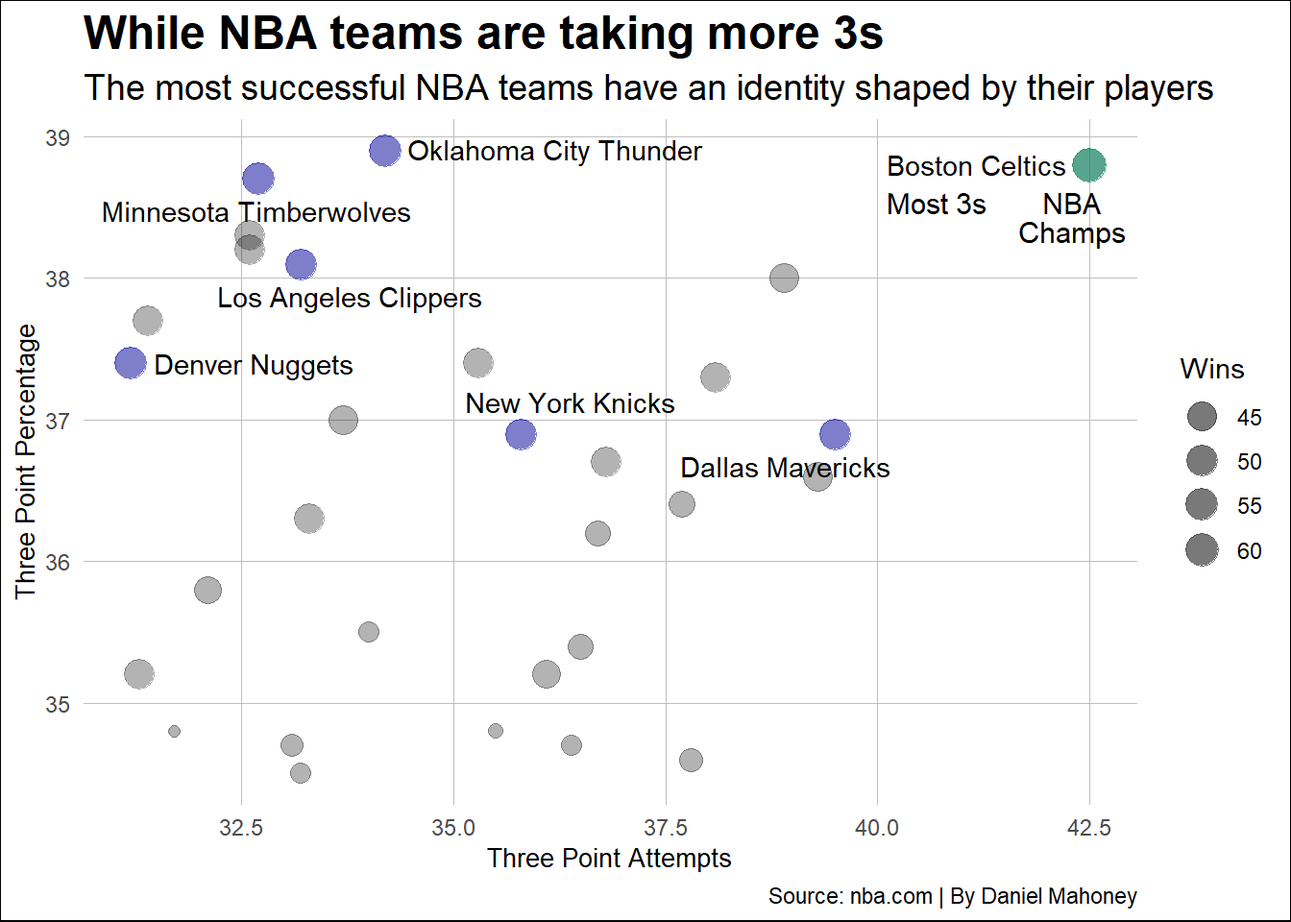
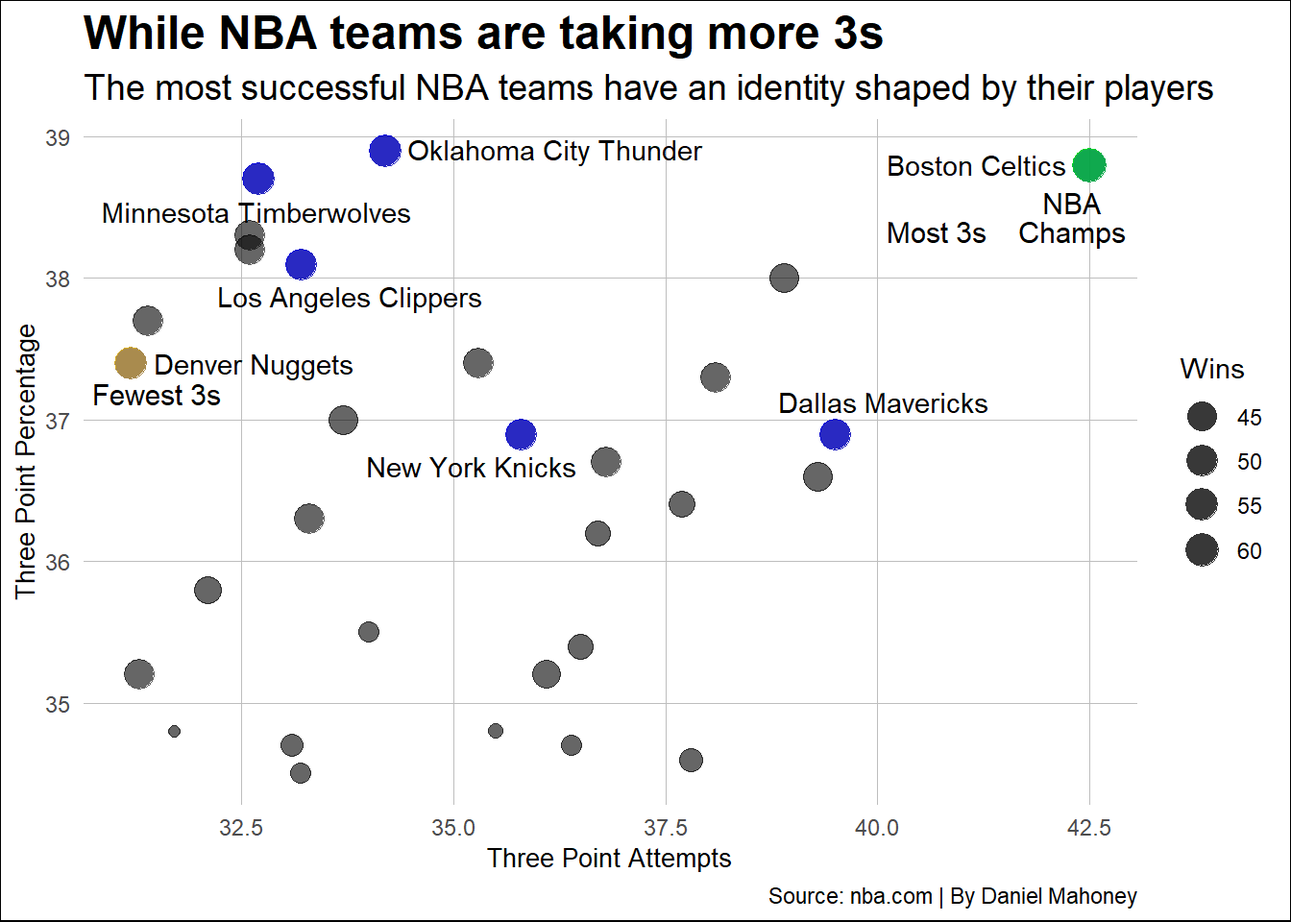
update index.html

diff --git a/posts/three-point-revolution/index.html b/posts/three-point-revolution/index.html
@@ -403,93 +403,112 @@ pre > code.sourceCode > span > a:first-child::before { text-decoration: underlin
 <span id="cb3-2"><a href="#cb3-2" aria-hidden="true" tabindex="-1"></a>  <span class="fu">filter</span>(Wins <span class="sc">&gt;</span> <span class="dv">49</span>)</span>
 <span id="cb3-3"><a href="#cb3-3" aria-hidden="true" tabindex="-1"></a>Boston <span class="ot">&lt;-</span> GoodTeams <span class="sc">|&gt;</span>  </span>
 <span id="cb3-4"><a href="#cb3-4" aria-hidden="true" tabindex="-1"></a>  <span class="fu">filter</span>(Wins <span class="sc">&gt;</span> <span class="dv">62</span>)</span>
-<span id="cb3-5"><a href="#cb3-5" aria-hidden="true" tabindex="-1"></a><span class="fu">ggplot</span>() <span class="sc">+</span></span>
-<span id="cb3-6"><a href="#cb3-6" aria-hidden="true" tabindex="-1"></a>  <span class="fu">geom_point</span>(</span>
-<span id="cb3-7"><a href="#cb3-7" aria-hidden="true" tabindex="-1"></a>    <span class="at">data =</span> logs24,</span>
-<span id="cb3-8"><a href="#cb3-8" aria-hidden="true" tabindex="-1"></a>    <span class="fu">aes</span>(</span>
-<span id="cb3-9"><a href="#cb3-9" aria-hidden="true" tabindex="-1"></a>      <span class="at">x =</span> <span class="st">`</span><span class="at">3P Attempts</span><span class="st">`</span>, </span>
-<span id="cb3-10"><a href="#cb3-10" aria-hidden="true" tabindex="-1"></a>      <span class="at">y =</span> <span class="st">`</span><span class="at">3P Percentage</span><span class="st">`</span>, </span>
-<span id="cb3-11"><a href="#cb3-11" aria-hidden="true" tabindex="-1"></a>      <span class="at">size =</span> Wins</span>
-<span id="cb3-12"><a href="#cb3-12" aria-hidden="true" tabindex="-1"></a>    ),</span>
-<span id="cb3-13"><a href="#cb3-13" aria-hidden="true" tabindex="-1"></a>    <span class="at">alpha =</span> .<span class="dv">3</span></span>
-<span id="cb3-14"><a href="#cb3-14" aria-hidden="true" tabindex="-1"></a>  ) <span class="sc">+</span> </span>
-<span id="cb3-15"><a href="#cb3-15" aria-hidden="true" tabindex="-1"></a>  <span class="fu">geom_point</span>(</span>
-<span id="cb3-16"><a href="#cb3-16" aria-hidden="true" tabindex="-1"></a>    <span class="at">data =</span> GoodTeams, </span>
-<span id="cb3-17"><a href="#cb3-17" aria-hidden="true" tabindex="-1"></a>    <span class="fu">aes</span>(</span>
-<span id="cb3-18"><a href="#cb3-18" aria-hidden="true" tabindex="-1"></a>      <span class="at">x =</span> <span class="st">`</span><span class="at">3P Attempts</span><span class="st">`</span>, </span>
-<span id="cb3-19"><a href="#cb3-19" aria-hidden="true" tabindex="-1"></a>      <span class="at">y =</span> <span class="st">`</span><span class="at">3P Percentage</span><span class="st">`</span>, </span>
-<span id="cb3-20"><a href="#cb3-20" aria-hidden="true" tabindex="-1"></a>      <span class="at">size =</span> Wins</span>
-<span id="cb3-21"><a href="#cb3-21" aria-hidden="true" tabindex="-1"></a>    ),</span>
-<span id="cb3-22"><a href="#cb3-22" aria-hidden="true" tabindex="-1"></a>    <span class="at">alpha =</span> .<span class="dv">3</span>,</span>
-<span id="cb3-23"><a href="#cb3-23" aria-hidden="true" tabindex="-1"></a>    <span class="at">color =</span> <span class="st">"blue"</span></span>
-<span id="cb3-24"><a href="#cb3-24" aria-hidden="true" tabindex="-1"></a>  ) <span class="sc">+</span> </span>
-<span id="cb3-25"><a href="#cb3-25" aria-hidden="true" tabindex="-1"></a>  <span class="fu">geom_point</span>(</span>
-<span id="cb3-26"><a href="#cb3-26" aria-hidden="true" tabindex="-1"></a>    <span class="at">data =</span> Boston, </span>
-<span id="cb3-27"><a href="#cb3-27" aria-hidden="true" tabindex="-1"></a>    <span class="fu">aes</span>(</span>
-<span id="cb3-28"><a href="#cb3-28" aria-hidden="true" tabindex="-1"></a>      <span class="at">x =</span> <span class="st">`</span><span class="at">3P Attempts</span><span class="st">`</span>, </span>
-<span id="cb3-29"><a href="#cb3-29" aria-hidden="true" tabindex="-1"></a>      <span class="at">y =</span> <span class="st">`</span><span class="at">3P Percentage</span><span class="st">`</span>, </span>
-<span id="cb3-30"><a href="#cb3-30" aria-hidden="true" tabindex="-1"></a>      <span class="at">size =</span> Wins</span>
-<span id="cb3-31"><a href="#cb3-31" aria-hidden="true" tabindex="-1"></a>    ),</span>
-<span id="cb3-32"><a href="#cb3-32" aria-hidden="true" tabindex="-1"></a>    <span class="at">alpha =</span> .<span class="dv">3</span>,  </span>
-<span id="cb3-33"><a href="#cb3-33" aria-hidden="true" tabindex="-1"></a>    <span class="at">color =</span> <span class="st">"green"</span></span>
-<span id="cb3-34"><a href="#cb3-34" aria-hidden="true" tabindex="-1"></a>  ) <span class="sc">+</span> </span>
-<span id="cb3-35"><a href="#cb3-35" aria-hidden="true" tabindex="-1"></a>  <span class="fu">geom_text_repel</span>(</span>
-<span id="cb3-36"><a href="#cb3-36" aria-hidden="true" tabindex="-1"></a>    <span class="at">data =</span> GoodTeams,  </span>
-<span id="cb3-37"><a href="#cb3-37" aria-hidden="true" tabindex="-1"></a>    <span class="fu">aes</span>(</span>
-<span id="cb3-38"><a href="#cb3-38" aria-hidden="true" tabindex="-1"></a>      <span class="at">x =</span> <span class="st">`</span><span class="at">3P Attempts</span><span class="st">`</span>, </span>
-<span id="cb3-39"><a href="#cb3-39" aria-hidden="true" tabindex="-1"></a>      <span class="at">y =</span> <span class="st">`</span><span class="at">3P Percentage</span><span class="st">`</span>, </span>
-<span id="cb3-40"><a href="#cb3-40" aria-hidden="true" tabindex="-1"></a>      <span class="at">label =</span> Team</span>
-<span id="cb3-41"><a href="#cb3-41" aria-hidden="true" tabindex="-1"></a>    ),</span>
-<span id="cb3-42"><a href="#cb3-42" aria-hidden="true" tabindex="-1"></a>    <span class="at">box.padding =</span> <span class="fl">0.5</span>,</span>
-<span id="cb3-43"><a href="#cb3-43" aria-hidden="true" tabindex="-1"></a>    <span class="at">point.padding =</span> <span class="fl">0.5</span>,</span>
-<span id="cb3-44"><a href="#cb3-44" aria-hidden="true" tabindex="-1"></a>    <span class="at">max.overlaps =</span> <span class="dv">10</span></span>
-<span id="cb3-45"><a href="#cb3-45" aria-hidden="true" tabindex="-1"></a>  ) <span class="sc">+</span></span>
-<span id="cb3-46"><a href="#cb3-46" aria-hidden="true" tabindex="-1"></a>  <span class="fu">scale_size_continuous</span>(</span>
-<span id="cb3-47"><a href="#cb3-47" aria-hidden="true" tabindex="-1"></a>    <span class="at">breaks =</span> <span class="fu">c</span>(<span class="dv">45</span>, <span class="dv">50</span>, <span class="dv">55</span>, <span class="dv">60</span>),</span>
-<span id="cb3-48"><a href="#cb3-48" aria-hidden="true" tabindex="-1"></a>    <span class="at">labels =</span> <span class="fu">c</span>(<span class="st">"45"</span>, <span class="st">"50"</span>, <span class="st">"55"</span>, <span class="st">"60"</span>),</span>
-<span id="cb3-49"><a href="#cb3-49" aria-hidden="true" tabindex="-1"></a>    <span class="at">range =</span> <span class="fu">c</span>(<span class="dv">2</span>, <span class="dv">6</span>)</span>
-<span id="cb3-50"><a href="#cb3-50" aria-hidden="true" tabindex="-1"></a>  ) <span class="sc">+</span></span>
-<span id="cb3-51"><a href="#cb3-51" aria-hidden="true" tabindex="-1"></a>  <span class="fu">labs</span>(</span>
-<span id="cb3-52"><a href="#cb3-52" aria-hidden="true" tabindex="-1"></a>    <span class="at">x =</span> <span class="st">"Three Point Attempts"</span>,</span>
-<span id="cb3-53"><a href="#cb3-53" aria-hidden="true" tabindex="-1"></a>    <span class="at">y =</span> <span class="st">"Three Point Percentage"</span>,</span>
-<span id="cb3-54"><a href="#cb3-54" aria-hidden="true" tabindex="-1"></a>    <span class="at">title =</span> <span class="st">"While NBA teams are taking more 3s"</span>,</span>
-<span id="cb3-55"><a href="#cb3-55" aria-hidden="true" tabindex="-1"></a>    <span class="at">subtitle =</span> <span class="st">"The most successful NBA teams have an identity shaped by their players"</span>,</span>
-<span id="cb3-56"><a href="#cb3-56" aria-hidden="true" tabindex="-1"></a>    <span class="at">caption =</span> <span class="st">"Source: nba.com | By Daniel Mahoney"</span>,</span>
-<span id="cb3-57"><a href="#cb3-57" aria-hidden="true" tabindex="-1"></a>    <span class="at">size =</span> <span class="st">"Wins"</span></span>
-<span id="cb3-58"><a href="#cb3-58" aria-hidden="true" tabindex="-1"></a>  ) <span class="sc">+</span></span>
-<span id="cb3-59"><a href="#cb3-59" aria-hidden="true" tabindex="-1"></a>  <span class="fu">geom_text</span>(</span>
-<span id="cb3-60"><a href="#cb3-60" aria-hidden="true" tabindex="-1"></a>    <span class="fu">aes</span>(<span class="at">x =</span> <span class="fl">42.3</span>, <span class="at">y =</span> <span class="fl">38.3</span>, <span class="at">label =</span> <span class="st">"NBA"</span>),</span>
-<span id="cb3-61"><a href="#cb3-61" aria-hidden="true" tabindex="-1"></a>    <span class="at">color =</span> <span class="st">"black"</span>,</span>
-<span id="cb3-62"><a href="#cb3-62" aria-hidden="true" tabindex="-1"></a>    <span class="at">size =</span> <span class="dv">4</span>,</span>
-<span id="cb3-63"><a href="#cb3-63" aria-hidden="true" tabindex="-1"></a>    <span class="at">vjust =</span> <span class="sc">-</span><span class="dv">1</span>,  </span>
-<span id="cb3-64"><a href="#cb3-64" aria-hidden="true" tabindex="-1"></a>    <span class="at">hjust =</span> <span class="fl">0.5</span></span>
-<span id="cb3-65"><a href="#cb3-65" aria-hidden="true" tabindex="-1"></a>  ) <span class="sc">+</span></span>
-<span id="cb3-66"><a href="#cb3-66" aria-hidden="true" tabindex="-1"></a>  <span class="fu">geom_text</span>(</span>
-<span id="cb3-67"><a href="#cb3-67" aria-hidden="true" tabindex="-1"></a>    <span class="fu">aes</span>(<span class="at">x =</span> <span class="fl">42.3</span>, <span class="at">y =</span> <span class="fl">38.1</span>, <span class="at">label =</span> <span class="st">"Champs"</span>),</span>
-<span id="cb3-68"><a href="#cb3-68" aria-hidden="true" tabindex="-1"></a>    <span class="at">color =</span> <span class="st">"black"</span>,</span>
-<span id="cb3-69"><a href="#cb3-69" aria-hidden="true" tabindex="-1"></a>    <span class="at">size =</span> <span class="dv">4</span>,</span>
-<span id="cb3-70"><a href="#cb3-70" aria-hidden="true" tabindex="-1"></a>    <span class="at">vjust =</span> <span class="sc">-</span><span class="dv">1</span>,  </span>
-<span id="cb3-71"><a href="#cb3-71" aria-hidden="true" tabindex="-1"></a>    <span class="at">hjust =</span> <span class="fl">0.5</span></span>
-<span id="cb3-72"><a href="#cb3-72" aria-hidden="true" tabindex="-1"></a>  ) <span class="sc">+</span></span>
-<span id="cb3-73"><a href="#cb3-73" aria-hidden="true" tabindex="-1"></a>  <span class="fu">geom_text</span>(</span>
-<span id="cb3-74"><a href="#cb3-74" aria-hidden="true" tabindex="-1"></a>    <span class="fu">aes</span>(<span class="at">x =</span> <span class="fl">40.7</span>, <span class="at">y =</span> <span class="fl">38.3</span>, <span class="at">label =</span> <span class="st">"Most 3s"</span>),</span>
-<span id="cb3-75"><a href="#cb3-75" aria-hidden="true" tabindex="-1"></a>    <span class="at">color =</span> <span class="st">"black"</span>,</span>
-<span id="cb3-76"><a href="#cb3-76" aria-hidden="true" tabindex="-1"></a>    <span class="at">size =</span> <span class="dv">4</span>,</span>
-<span id="cb3-77"><a href="#cb3-77" aria-hidden="true" tabindex="-1"></a>    <span class="at">vjust =</span> <span class="sc">-</span><span class="dv">1</span>,  </span>
-<span id="cb3-78"><a href="#cb3-78" aria-hidden="true" tabindex="-1"></a>    <span class="at">hjust =</span> <span class="fl">0.5</span></span>
-<span id="cb3-79"><a href="#cb3-79" aria-hidden="true" tabindex="-1"></a>  ) <span class="sc">+</span></span>
-<span id="cb3-80"><a href="#cb3-80" aria-hidden="true" tabindex="-1"></a>  <span class="fu">guides</span>(<span class="at">size =</span> <span class="fu">guide_legend</span>(<span class="at">title =</span> <span class="st">"Wins"</span>, <span class="at">override.aes =</span> <span class="fu">list</span>(<span class="at">color =</span> <span class="st">"#333333"</span>))) <span class="sc">+</span></span>
-<span id="cb3-81"><a href="#cb3-81" aria-hidden="true" tabindex="-1"></a>  <span class="fu">theme_minimal</span>() <span class="sc">+</span></span>
-<span id="cb3-82"><a href="#cb3-82" aria-hidden="true" tabindex="-1"></a>  <span class="fu">theme</span>(</span>
-<span id="cb3-83"><a href="#cb3-83" aria-hidden="true" tabindex="-1"></a>    <span class="at">plot.title =</span> <span class="fu">element_text</span>(<span class="at">size =</span> <span class="dv">18</span>, <span class="at">face =</span> <span class="st">"bold"</span>), </span>
-<span id="cb3-84"><a href="#cb3-84" aria-hidden="true" tabindex="-1"></a>    <span class="at">plot.background =</span> <span class="fu">element_rect</span>(<span class="at">fill =</span> <span class="st">"white"</span>),</span>
-<span id="cb3-85"><a href="#cb3-85" aria-hidden="true" tabindex="-1"></a>    <span class="at">plot.subtitle =</span> <span class="fu">element_text</span>(<span class="at">size =</span> <span class="dv">14</span>),  </span>
-<span id="cb3-86"><a href="#cb3-86" aria-hidden="true" tabindex="-1"></a>    <span class="at">axis.title =</span> <span class="fu">element_text</span>(<span class="at">size =</span> <span class="dv">10</span>),  </span>
-<span id="cb3-87"><a href="#cb3-87" aria-hidden="true" tabindex="-1"></a>    <span class="at">axis.text =</span> <span class="fu">element_text</span>(<span class="at">size =</span> <span class="dv">9</span>),  </span>
-<span id="cb3-88"><a href="#cb3-88" aria-hidden="true" tabindex="-1"></a>    <span class="at">strip.text =</span> <span class="fu">element_text</span>(<span class="at">size =</span> <span class="dv">10</span>, <span class="at">face =</span> <span class="st">"bold"</span>),  </span>
-<span id="cb3-89"><a href="#cb3-89" aria-hidden="true" tabindex="-1"></a>    <span class="at">panel.grid.minor =</span> <span class="fu">element_blank</span>(),  </span>
-<span id="cb3-90"><a href="#cb3-90" aria-hidden="true" tabindex="-1"></a>    <span class="at">panel.grid.major =</span> <span class="fu">element_line</span>(<span class="at">color =</span> <span class="st">"gray"</span>, <span class="at">size =</span> <span class="fl">0.2</span>)  </span>
-<span id="cb3-91"><a href="#cb3-91" aria-hidden="true" tabindex="-1"></a>  )</span></code><button title="Copy to Clipboard" class="code-copy-button"><i class="bi"></i></button></pre></div>
+<span id="cb3-5"><a href="#cb3-5" aria-hidden="true" tabindex="-1"></a>Denver <span class="ot">&lt;-</span> GoodTeams <span class="sc">|&gt;</span>  </span>
+<span id="cb3-6"><a href="#cb3-6" aria-hidden="true" tabindex="-1"></a>  <span class="fu">filter</span>(Team <span class="sc">==</span> <span class="st">"Denver Nuggets"</span>)</span>
+<span id="cb3-7"><a href="#cb3-7" aria-hidden="true" tabindex="-1"></a><span class="fu">ggplot</span>() <span class="sc">+</span></span>
+<span id="cb3-8"><a href="#cb3-8" aria-hidden="true" tabindex="-1"></a>  <span class="fu">geom_point</span>(</span>
+<span id="cb3-9"><a href="#cb3-9" aria-hidden="true" tabindex="-1"></a>    <span class="at">data =</span> logs24,</span>
+<span id="cb3-10"><a href="#cb3-10" aria-hidden="true" tabindex="-1"></a>    <span class="fu">aes</span>(</span>
+<span id="cb3-11"><a href="#cb3-11" aria-hidden="true" tabindex="-1"></a>      <span class="at">x =</span> <span class="st">`</span><span class="at">3P Attempts</span><span class="st">`</span>, </span>
+<span id="cb3-12"><a href="#cb3-12" aria-hidden="true" tabindex="-1"></a>      <span class="at">y =</span> <span class="st">`</span><span class="at">3P Percentage</span><span class="st">`</span>, </span>
+<span id="cb3-13"><a href="#cb3-13" aria-hidden="true" tabindex="-1"></a>      <span class="at">size =</span> Wins</span>
+<span id="cb3-14"><a href="#cb3-14" aria-hidden="true" tabindex="-1"></a>    ),</span>
+<span id="cb3-15"><a href="#cb3-15" aria-hidden="true" tabindex="-1"></a>    <span class="at">alpha =</span> <span class="fl">0.6</span>  </span>
+<span id="cb3-16"><a href="#cb3-16" aria-hidden="true" tabindex="-1"></a>  ) <span class="sc">+</span> </span>
+<span id="cb3-17"><a href="#cb3-17" aria-hidden="true" tabindex="-1"></a>  <span class="fu">geom_point</span>(</span>
+<span id="cb3-18"><a href="#cb3-18" aria-hidden="true" tabindex="-1"></a>    <span class="at">data =</span> GoodTeams, </span>
+<span id="cb3-19"><a href="#cb3-19" aria-hidden="true" tabindex="-1"></a>    <span class="fu">aes</span>(</span>
+<span id="cb3-20"><a href="#cb3-20" aria-hidden="true" tabindex="-1"></a>      <span class="at">x =</span> <span class="st">`</span><span class="at">3P Attempts</span><span class="st">`</span>, </span>
+<span id="cb3-21"><a href="#cb3-21" aria-hidden="true" tabindex="-1"></a>      <span class="at">y =</span> <span class="st">`</span><span class="at">3P Percentage</span><span class="st">`</span>, </span>
+<span id="cb3-22"><a href="#cb3-22" aria-hidden="true" tabindex="-1"></a>      <span class="at">size =</span> Wins</span>
+<span id="cb3-23"><a href="#cb3-23" aria-hidden="true" tabindex="-1"></a>    ),</span>
+<span id="cb3-24"><a href="#cb3-24" aria-hidden="true" tabindex="-1"></a>    <span class="at">alpha =</span> <span class="fl">0.6</span>,  </span>
+<span id="cb3-25"><a href="#cb3-25" aria-hidden="true" tabindex="-1"></a>    <span class="at">color =</span> <span class="st">"blue"</span></span>
+<span id="cb3-26"><a href="#cb3-26" aria-hidden="true" tabindex="-1"></a>  ) <span class="sc">+</span> </span>
+<span id="cb3-27"><a href="#cb3-27" aria-hidden="true" tabindex="-1"></a>  <span class="fu">geom_point</span>(</span>
+<span id="cb3-28"><a href="#cb3-28" aria-hidden="true" tabindex="-1"></a>    <span class="at">data =</span> Boston, </span>
+<span id="cb3-29"><a href="#cb3-29" aria-hidden="true" tabindex="-1"></a>    <span class="fu">aes</span>(</span>
+<span id="cb3-30"><a href="#cb3-30" aria-hidden="true" tabindex="-1"></a>      <span class="at">x =</span> <span class="st">`</span><span class="at">3P Attempts</span><span class="st">`</span>, </span>
+<span id="cb3-31"><a href="#cb3-31" aria-hidden="true" tabindex="-1"></a>      <span class="at">y =</span> <span class="st">`</span><span class="at">3P Percentage</span><span class="st">`</span>, </span>
+<span id="cb3-32"><a href="#cb3-32" aria-hidden="true" tabindex="-1"></a>      <span class="at">size =</span> Wins</span>
+<span id="cb3-33"><a href="#cb3-33" aria-hidden="true" tabindex="-1"></a>    ),</span>
+<span id="cb3-34"><a href="#cb3-34" aria-hidden="true" tabindex="-1"></a>    <span class="at">alpha =</span> <span class="fl">0.6</span>,  </span>
+<span id="cb3-35"><a href="#cb3-35" aria-hidden="true" tabindex="-1"></a>    <span class="at">color =</span> <span class="st">"green"</span></span>
+<span id="cb3-36"><a href="#cb3-36" aria-hidden="true" tabindex="-1"></a>  ) <span class="sc">+</span> </span>
+<span id="cb3-37"><a href="#cb3-37" aria-hidden="true" tabindex="-1"></a>  <span class="fu">geom_point</span>(</span>
+<span id="cb3-38"><a href="#cb3-38" aria-hidden="true" tabindex="-1"></a>    <span class="at">data =</span> Denver, </span>
+<span id="cb3-39"><a href="#cb3-39" aria-hidden="true" tabindex="-1"></a>    <span class="fu">aes</span>(</span>
+<span id="cb3-40"><a href="#cb3-40" aria-hidden="true" tabindex="-1"></a>      <span class="at">x =</span> <span class="st">`</span><span class="at">3P Attempts</span><span class="st">`</span>, </span>
+<span id="cb3-41"><a href="#cb3-41" aria-hidden="true" tabindex="-1"></a>      <span class="at">y =</span> <span class="st">`</span><span class="at">3P Percentage</span><span class="st">`</span>, </span>
+<span id="cb3-42"><a href="#cb3-42" aria-hidden="true" tabindex="-1"></a>      <span class="at">size =</span> Wins</span>
+<span id="cb3-43"><a href="#cb3-43" aria-hidden="true" tabindex="-1"></a>    ),</span>
+<span id="cb3-44"><a href="#cb3-44" aria-hidden="true" tabindex="-1"></a>    <span class="at">alpha =</span> <span class="fl">0.6</span>,  </span>
+<span id="cb3-45"><a href="#cb3-45" aria-hidden="true" tabindex="-1"></a>    <span class="at">color =</span> <span class="st">"#FFCC00"</span></span>
+<span id="cb3-46"><a href="#cb3-46" aria-hidden="true" tabindex="-1"></a>  ) <span class="sc">+</span> </span>
+<span id="cb3-47"><a href="#cb3-47" aria-hidden="true" tabindex="-1"></a>  <span class="fu">geom_text_repel</span>(</span>
+<span id="cb3-48"><a href="#cb3-48" aria-hidden="true" tabindex="-1"></a>    <span class="at">data =</span> GoodTeams,  </span>
+<span id="cb3-49"><a href="#cb3-49" aria-hidden="true" tabindex="-1"></a>    <span class="fu">aes</span>(</span>
+<span id="cb3-50"><a href="#cb3-50" aria-hidden="true" tabindex="-1"></a>      <span class="at">x =</span> <span class="st">`</span><span class="at">3P Attempts</span><span class="st">`</span>, </span>
+<span id="cb3-51"><a href="#cb3-51" aria-hidden="true" tabindex="-1"></a>      <span class="at">y =</span> <span class="st">`</span><span class="at">3P Percentage</span><span class="st">`</span>, </span>
+<span id="cb3-52"><a href="#cb3-52" aria-hidden="true" tabindex="-1"></a>      <span class="at">label =</span> Team</span>
+<span id="cb3-53"><a href="#cb3-53" aria-hidden="true" tabindex="-1"></a>    ),</span>
+<span id="cb3-54"><a href="#cb3-54" aria-hidden="true" tabindex="-1"></a>    <span class="at">box.padding =</span> <span class="fl">0.5</span>,</span>
+<span id="cb3-55"><a href="#cb3-55" aria-hidden="true" tabindex="-1"></a>    <span class="at">point.padding =</span> <span class="fl">0.5</span>,</span>
+<span id="cb3-56"><a href="#cb3-56" aria-hidden="true" tabindex="-1"></a>    <span class="at">max.overlaps =</span> <span class="dv">10</span></span>
+<span id="cb3-57"><a href="#cb3-57" aria-hidden="true" tabindex="-1"></a>  ) <span class="sc">+</span></span>
+<span id="cb3-58"><a href="#cb3-58" aria-hidden="true" tabindex="-1"></a>  <span class="fu">scale_size_continuous</span>(</span>
+<span id="cb3-59"><a href="#cb3-59" aria-hidden="true" tabindex="-1"></a>    <span class="at">breaks =</span> <span class="fu">c</span>(<span class="dv">45</span>, <span class="dv">50</span>, <span class="dv">55</span>, <span class="dv">60</span>),</span>
+<span id="cb3-60"><a href="#cb3-60" aria-hidden="true" tabindex="-1"></a>    <span class="at">labels =</span> <span class="fu">c</span>(<span class="st">"45"</span>, <span class="st">"50"</span>, <span class="st">"55"</span>, <span class="st">"60"</span>),</span>
+<span id="cb3-61"><a href="#cb3-61" aria-hidden="true" tabindex="-1"></a>    <span class="at">range =</span> <span class="fu">c</span>(<span class="dv">2</span>, <span class="dv">6</span>)</span>
+<span id="cb3-62"><a href="#cb3-62" aria-hidden="true" tabindex="-1"></a>  ) <span class="sc">+</span></span>
+<span id="cb3-63"><a href="#cb3-63" aria-hidden="true" tabindex="-1"></a>  <span class="fu">labs</span>(</span>
+<span id="cb3-64"><a href="#cb3-64" aria-hidden="true" tabindex="-1"></a>    <span class="at">x =</span> <span class="st">"Three Point Attempts"</span>,</span>
+<span id="cb3-65"><a href="#cb3-65" aria-hidden="true" tabindex="-1"></a>    <span class="at">y =</span> <span class="st">"Three Point Percentage"</span>,</span>
+<span id="cb3-66"><a href="#cb3-66" aria-hidden="true" tabindex="-1"></a>    <span class="at">title =</span> <span class="st">"While NBA teams are taking more 3s"</span>,</span>
+<span id="cb3-67"><a href="#cb3-67" aria-hidden="true" tabindex="-1"></a>    <span class="at">subtitle =</span> <span class="st">"The most successful NBA teams have an identity shaped by their players"</span>,</span>
+<span id="cb3-68"><a href="#cb3-68" aria-hidden="true" tabindex="-1"></a>    <span class="at">caption =</span> <span class="st">"Source: nba.com | By Daniel Mahoney"</span>,</span>
+<span id="cb3-69"><a href="#cb3-69" aria-hidden="true" tabindex="-1"></a>    <span class="at">size =</span> <span class="st">"Wins"</span></span>
+<span id="cb3-70"><a href="#cb3-70" aria-hidden="true" tabindex="-1"></a>  ) <span class="sc">+</span></span>
+<span id="cb3-71"><a href="#cb3-71" aria-hidden="true" tabindex="-1"></a>  <span class="fu">geom_text</span>(</span>
+<span id="cb3-72"><a href="#cb3-72" aria-hidden="true" tabindex="-1"></a>    <span class="fu">aes</span>(<span class="at">x =</span> <span class="fl">42.3</span>, <span class="at">y =</span> <span class="fl">38.3</span>, <span class="at">label =</span> <span class="st">"NBA"</span>),</span>
+<span id="cb3-73"><a href="#cb3-73" aria-hidden="true" tabindex="-1"></a>    <span class="at">color =</span> <span class="st">"black"</span>,</span>
+<span id="cb3-74"><a href="#cb3-74" aria-hidden="true" tabindex="-1"></a>    <span class="at">size =</span> <span class="dv">4</span>,</span>
+<span id="cb3-75"><a href="#cb3-75" aria-hidden="true" tabindex="-1"></a>    <span class="at">vjust =</span> <span class="sc">-</span><span class="dv">1</span>,</span>
+<span id="cb3-76"><a href="#cb3-76" aria-hidden="true" tabindex="-1"></a>    <span class="at">hjust =</span> <span class="fl">0.5</span></span>
+<span id="cb3-77"><a href="#cb3-77" aria-hidden="true" tabindex="-1"></a>  ) <span class="sc">+</span></span>
+<span id="cb3-78"><a href="#cb3-78" aria-hidden="true" tabindex="-1"></a>  <span class="fu">geom_text</span>(</span>
+<span id="cb3-79"><a href="#cb3-79" aria-hidden="true" tabindex="-1"></a>    <span class="fu">aes</span>(<span class="at">x =</span> <span class="fl">42.3</span>, <span class="at">y =</span> <span class="fl">38.1</span>, <span class="at">label =</span> <span class="st">"Champs"</span>),</span>
+<span id="cb3-80"><a href="#cb3-80" aria-hidden="true" tabindex="-1"></a>    <span class="at">color =</span> <span class="st">"black"</span>,</span>
+<span id="cb3-81"><a href="#cb3-81" aria-hidden="true" tabindex="-1"></a>    <span class="at">size =</span> <span class="dv">4</span>,</span>
+<span id="cb3-82"><a href="#cb3-82" aria-hidden="true" tabindex="-1"></a>    <span class="at">vjust =</span> <span class="sc">-</span><span class="dv">1</span>,</span>
+<span id="cb3-83"><a href="#cb3-83" aria-hidden="true" tabindex="-1"></a>    <span class="at">hjust =</span> <span class="fl">0.5</span></span>
+<span id="cb3-84"><a href="#cb3-84" aria-hidden="true" tabindex="-1"></a>  ) <span class="sc">+</span></span>
+<span id="cb3-85"><a href="#cb3-85" aria-hidden="true" tabindex="-1"></a>   <span class="fu">geom_text</span>(</span>
+<span id="cb3-86"><a href="#cb3-86" aria-hidden="true" tabindex="-1"></a>    <span class="fu">aes</span>(<span class="at">x =</span> <span class="fl">40.7</span>, <span class="at">y =</span> <span class="fl">38.1</span>, <span class="at">label =</span> <span class="st">"Most 3s"</span>),</span>
+<span id="cb3-87"><a href="#cb3-87" aria-hidden="true" tabindex="-1"></a>    <span class="at">color =</span> <span class="st">"black"</span>,</span>
+<span id="cb3-88"><a href="#cb3-88" aria-hidden="true" tabindex="-1"></a>    <span class="at">size =</span> <span class="dv">4</span>,</span>
+<span id="cb3-89"><a href="#cb3-89" aria-hidden="true" tabindex="-1"></a>    <span class="at">vjust =</span> <span class="sc">-</span><span class="dv">1</span>,</span>
+<span id="cb3-90"><a href="#cb3-90" aria-hidden="true" tabindex="-1"></a>    <span class="at">hjust =</span> <span class="fl">0.5</span></span>
+<span id="cb3-91"><a href="#cb3-91" aria-hidden="true" tabindex="-1"></a>  ) <span class="sc">+</span></span>
+<span id="cb3-92"><a href="#cb3-92" aria-hidden="true" tabindex="-1"></a>  <span class="fu">geom_text</span>(</span>
+<span id="cb3-93"><a href="#cb3-93" aria-hidden="true" tabindex="-1"></a>    <span class="fu">aes</span>(<span class="at">x =</span> <span class="fl">31.5</span>, <span class="at">y =</span> <span class="fl">36.95</span>, <span class="at">label =</span> <span class="st">"Fewest 3s"</span>),</span>
+<span id="cb3-94"><a href="#cb3-94" aria-hidden="true" tabindex="-1"></a>    <span class="at">color =</span> <span class="st">"black"</span>,</span>
+<span id="cb3-95"><a href="#cb3-95" aria-hidden="true" tabindex="-1"></a>    <span class="at">size =</span> <span class="dv">4</span>,</span>
+<span id="cb3-96"><a href="#cb3-96" aria-hidden="true" tabindex="-1"></a>    <span class="at">vjust =</span> <span class="sc">-</span><span class="dv">1</span>,</span>
+<span id="cb3-97"><a href="#cb3-97" aria-hidden="true" tabindex="-1"></a>    <span class="at">hjust =</span> <span class="fl">0.5</span></span>
+<span id="cb3-98"><a href="#cb3-98" aria-hidden="true" tabindex="-1"></a>  ) <span class="sc">+</span></span>
+<span id="cb3-99"><a href="#cb3-99" aria-hidden="true" tabindex="-1"></a>  <span class="fu">guides</span>(<span class="at">size =</span> <span class="fu">guide_legend</span>(<span class="at">title =</span> <span class="st">"Wins"</span>, <span class="at">override.aes =</span> <span class="fu">list</span>(<span class="at">color =</span> <span class="st">"#333333"</span>))) <span class="sc">+</span></span>
+<span id="cb3-100"><a href="#cb3-100" aria-hidden="true" tabindex="-1"></a>  <span class="fu">theme_minimal</span>() <span class="sc">+</span></span>
+<span id="cb3-101"><a href="#cb3-101" aria-hidden="true" tabindex="-1"></a>  <span class="fu">theme</span>(</span>
+<span id="cb3-102"><a href="#cb3-102" aria-hidden="true" tabindex="-1"></a>    <span class="at">plot.title =</span> <span class="fu">element_text</span>(<span class="at">size =</span> <span class="dv">18</span>, <span class="at">face =</span> <span class="st">"bold"</span>), </span>
+<span id="cb3-103"><a href="#cb3-103" aria-hidden="true" tabindex="-1"></a>    <span class="at">plot.background =</span> <span class="fu">element_rect</span>(<span class="at">fill =</span> <span class="st">"white"</span>),</span>
+<span id="cb3-104"><a href="#cb3-104" aria-hidden="true" tabindex="-1"></a>    <span class="at">plot.subtitle =</span> <span class="fu">element_text</span>(<span class="at">size =</span> <span class="dv">14</span>),  </span>
+<span id="cb3-105"><a href="#cb3-105" aria-hidden="true" tabindex="-1"></a>    <span class="at">axis.title =</span> <span class="fu">element_text</span>(<span class="at">size =</span> <span class="dv">10</span>),  </span>
+<span id="cb3-106"><a href="#cb3-106" aria-hidden="true" tabindex="-1"></a>    <span class="at">axis.text =</span> <span class="fu">element_text</span>(<span class="at">size =</span> <span class="dv">9</span>),  </span>
+<span id="cb3-107"><a href="#cb3-107" aria-hidden="true" tabindex="-1"></a>    <span class="at">strip.text =</span> <span class="fu">element_text</span>(<span class="at">size =</span> <span class="dv">10</span>, <span class="at">face =</span> <span class="st">"bold"</span>),  </span>
+<span id="cb3-108"><a href="#cb3-108" aria-hidden="true" tabindex="-1"></a>    <span class="at">panel.grid.minor =</span> <span class="fu">element_blank</span>(),  </span>
+<span id="cb3-109"><a href="#cb3-109" aria-hidden="true" tabindex="-1"></a>    <span class="at">panel.grid.major =</span> <span class="fu">element_line</span>(<span class="at">color =</span> <span class="st">"gray"</span>, <span class="at">size =</span> <span class="fl">0.2</span>)  </span>
+<span id="cb3-110"><a href="#cb3-110" aria-hidden="true" tabindex="-1"></a>  )</span></code><button title="Copy to Clipboard" class="code-copy-button"><i class="bi"></i></button></pre></div>
 </details>
 <div class="cell-output-display">
 <div>

diff --git a/index.html b/index.html
@@ -205,7 +205,7 @@ window.Quarto = {
 
 <div class="quarto-listing quarto-listing-container-default" id="listing-listing">
 <div class="list quarto-listing-default">
-<div class="quarto-post image-right" data-index="0" data-categories="YmFza2V0YmFsbCxuYmEsc3RlcGg=" data-listing-date-sort="1733205600000" data-listing-file-modified-sort="1733545970151" data-listing-date-modified-sort="NaN" data-listing-reading-time-sort="15" data-listing-word-count-sort="2815">
+<div class="quarto-post image-right" data-index="0" data-categories="YmFza2V0YmFsbCxuYmEsc3RlcGg=" data-listing-date-sort="1733205600000" data-listing-file-modified-sort="1733547478781" data-listing-date-modified-sort="NaN" data-listing-reading-time-sort="15" data-listing-word-count-sort="2929">
 <div class="thumbnail">
 <p><a href="./posts/three-point-revolution/index.html" class="no-external"></a></p><a href="./posts/three-point-revolution/index.html" class="no-external">
 <p><img loading="lazy" src="./posts/three-point-revolution/image.png" class="thumbnail-image"></p>
